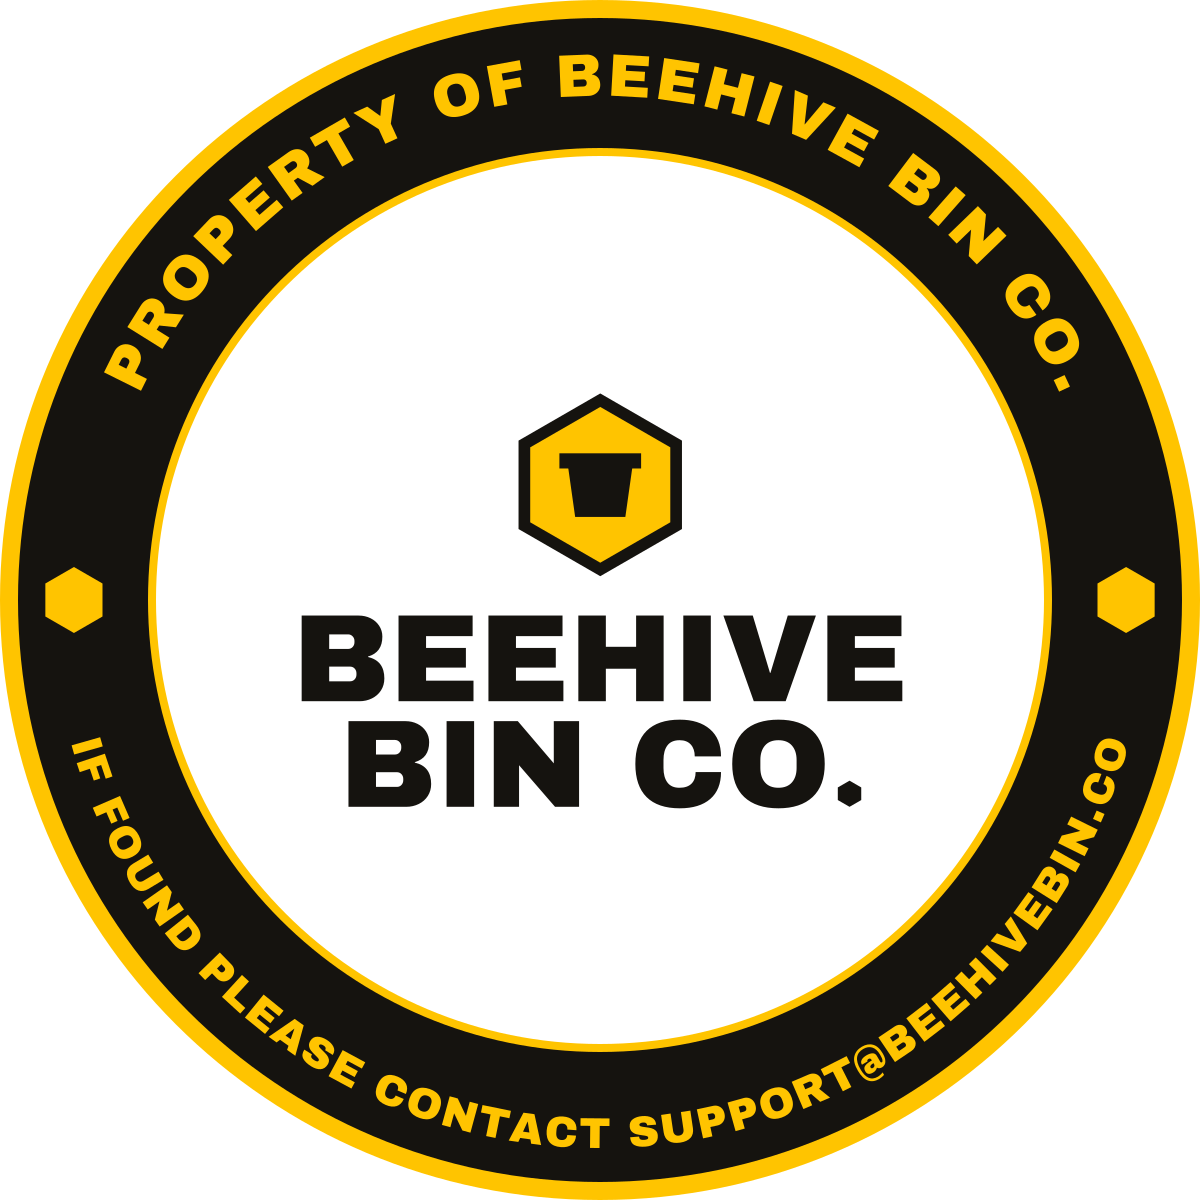
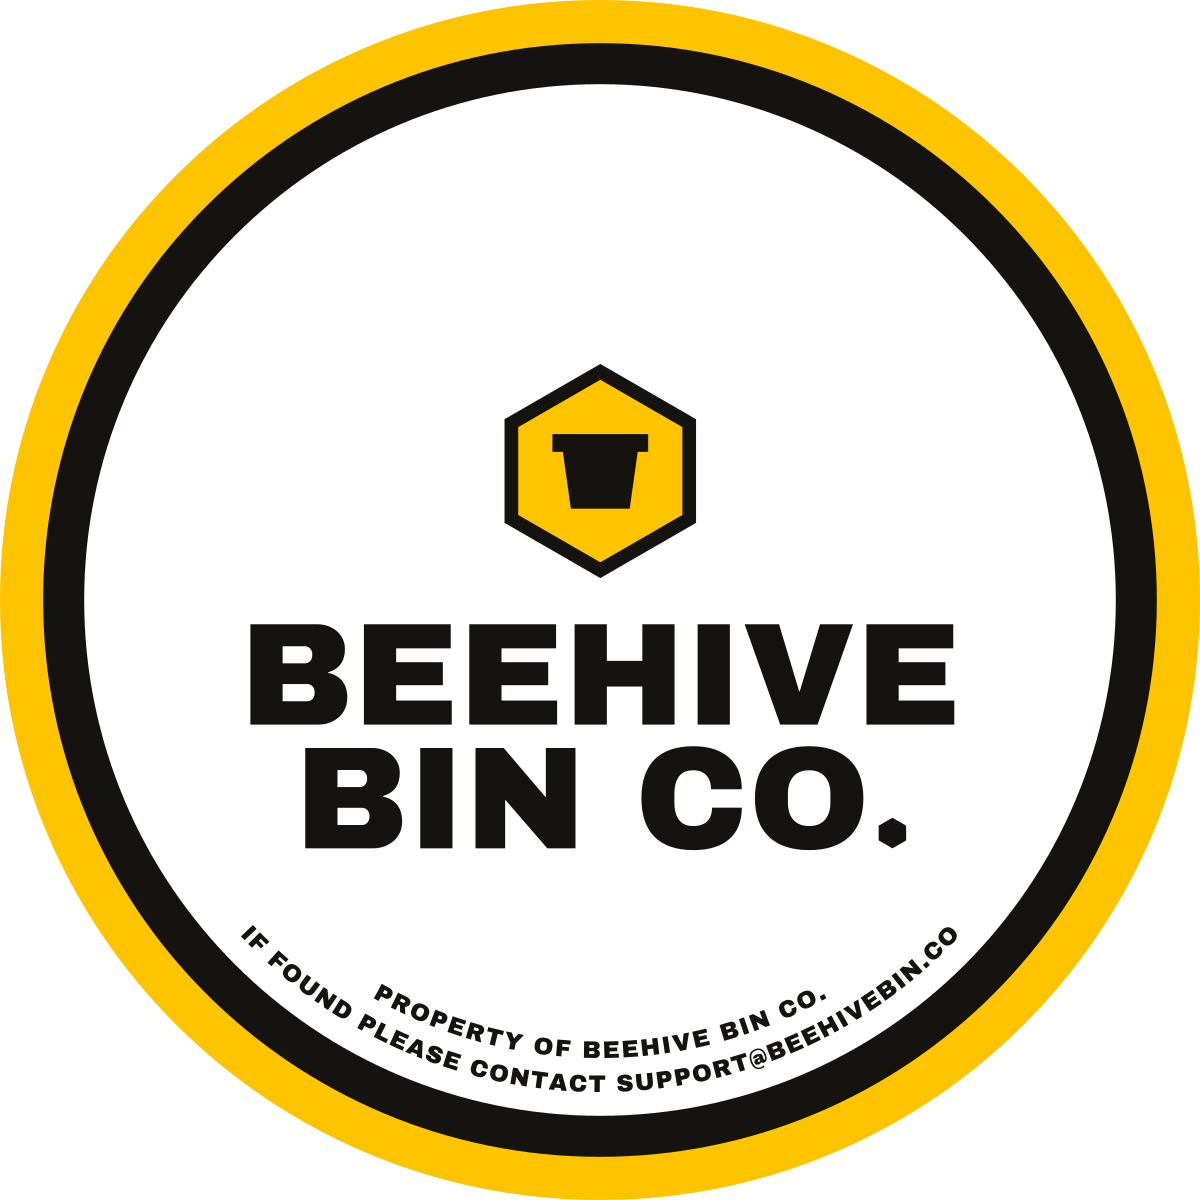
A stoplight on every request: can this be said yes to?
Green fits with room, yellow fits but leaves the fleet nearly empty, red
does not fit and says by how many on which day, grey when there is nothing
to judge. One availability sweep covers every request on screen. A request
already turned into a rental is judged with its own hold left out.

diff --git a/workers/admin/test/stoplight.test.js b/workers/admin/test/stoplight.test.js
@@ -1,0 +1,62 @@
+import { describe, it, expect } from 'vitest';
+import { ok, request, rental, fleet, weekday } from './helpers.js';
+
+const addDays = (iso, n) => { const d = new Date(`${iso}T12:00:00Z`); d.setUTCDate(d.getUTCDate() + n); return d.toISOString().slice(0, 10); };
+const light = async id => (await ok(`/requests/${id}`)).request.fit;
+const lights = async () => Object.fromEntries((await ok('/requests?status=new')).requests.map(r => [r.id, r.fit]));
+
+describe('the stoplight on a request', () => {
+  it('green when the bins are free with room to spare', async () => {
+    await fleet(40);
+    const r = await request({ bins: 10, start_date: weekday(3) });
+    expect(await light(r.id)).toMatchObject({ light: 'green', fits: true, available: 40, fleet: 40 });
+  });
+
+  it('yellow when it fits but would leave the fleet nearly empty', async () => {
+    await fleet(40);
+    await rental({ bins: 20, weeks: 1, start_date: weekday(3) });
+    const r = await request({ bins: 20, start_date: weekday(4), email: 'y@example.com' });   // 20 free, needs 20 → 0 left
+    const f = await light(r.id);
+    expect(f.light).toBe('yellow');
+    expect(f.fits).toBe(true);
+    expect(f.available).toBe(20);
+    expect(f.tightest_day).toBe(weekday(4));
+  });
+
+  it('red when it does not fit, saying by how much and which day', async () => {
+    await fleet(40);
+    await rental({ bins: 40, weeks: 1, start_date: weekday(3) });
+    const r = await request({ bins: 10, start_date: addDays(weekday(3), 8), email: 'r@example.com' });   // turnaround day
+    const f = await light(r.id);
+    expect(f).toMatchObject({ light: 'red', fits: false, short_by: 10, available: 0 });
+    expect(f.tightest_day).toBe(addDays(weekday(3), 8));
+  });
+
+  it('grey when there is nothing to judge: no fleet, no dates, or a contact enquiry', async () => {
+    const r = await request({ bins: 10, start_date: weekday(3) });
+    expect((await light(r.id)).light).toBe('grey');
+    await fleet(40);
+    const q = await ok('/requests', { method: 'POST', body: { kind: 'contact', first_name: 'Q', email: 'q@example.com', message: 'hi' } });
+    expect((await light(q.request.id)).light).toBe('grey');
+  });
+
+  it('the list carries a light per row, with one availability lookup for the lot', async () => {
+    await fleet(40);
+    await rental({ bins: 40, weeks: 1, start_date: weekday(14) });
+    const a = await request({ bins: 10, start_date: weekday(3), email: 'a@example.com' });    // done and turned around before the 14th
+    const b = await request({ bins: 10, start_date: weekday(14), email: 'b@example.com' });
+    const c = await request({ bins: 60, start_date: weekday(30), email: 'c@example.com' });   // nothing else that far out — still 20 more than we own
+    const map = await lights();
+    expect(map[a.id].light).toBe('green');
+    expect(map[b.id].light).toBe('red');
+    expect(map[c.id].light).toBe('red');   // more than we own, ever
+    expect(map[c.id].short_by).toBe(20);
+  });
+
+  it('a converted request is judged against the world without its own rental in it', async () => {
+    await fleet(40);
+    const r = await rental({ bins: 40, weeks: 1, start_date: weekday(3) });
+    const f = (await ok(`/requests/${r.request_id}`)).request.fit;
+    expect(f.light).toBe('yellow');   // it fits exactly — because it is the one holding them
+  });
+});

diff --git a/workers/admin/public/index.html b/workers/admin/public/index.html
@@ -300,6 +300,7 @@ tr.late td{background:rgba(163,44,44,.05)}
 .cal .d.over{background:rgba(163,44,44,.12);border-color:rgba(163,44,44,.4)}
 .cal .d.over .av{color:var(--bad)}
 .binrow td{font-variant-numeric:tabular-nums}
+.light{margin-right:7px;cursor:help;font-size:13px;vertical-align:-1px}
 .seg button .n{opacity:.55;margin-left:4px;font-weight:400}
 .cond{font-size:11px;font-weight:700;letter-spacing:.04em;text-transform:uppercase;
   padding:3px 9px;border-radius:999px}
@@ -580,6 +581,20 @@ function render(active, node) {
 
 const banner = (msg, kind = 'err') => $(`<div class="banner ${kind}">${esc(msg)}</div>`);
 
+/* The stoplight: can this request be said yes to? The Worker judges each
+   request against the fleet over its whole span; this just draws the answer
+   and explains it on hover, so nobody presses Approve to find out. */
+const LIGHT = { green: '🟢', yellow: '🟡', red: '🔴', grey: '⚪' };
+function lightTitle(f, r) {
+  if (!f || f.light === 'grey') return f?.fleet === 0 ? 'No bins on the inventory list yet' : 'Nothing to check';
+  const day = f.tightest_day === r.start_date ? 'on the start date' : `on ${niceDate(f.tightest_day)}`;
+  if (f.light === 'red') return `Does not fit — only ${f.available} of ${f.fleet} bins free ${day}, ${f.short_by} short`;
+  if (f.light === 'yellow') return `Fits, but leaves only ${f.available - r.bins} of ${f.fleet} bins ${day}`;
+  return `Fits — ${f.available} of ${f.fleet} bins free ${day}`;
+}
+const light = (r, cls = '') => r.kind === 'reserve'
+  ? `<span class="light ${cls}" title="${esc(lightTitle(r.fit, r))}">${LIGHT[r.fit?.light || 'grey']}</span>` : '';
+
 /* ---------- requests ---------- */
 const reqState = { status: 'new', q: '' };
 
@@ -642,7 +657,7 @@ async function loadList(list, head) {
         : `<span class="pill ${r.status}">${r.status}</span>`}${
         r.source === 'manual' ? ' <span class="pill manual" title="Taken by phone">phone</span>' : ''}</td>
       <td><div class="who">${esc(fullName(r))}<small>${esc(r.email || r.phone || '—')}</small></div></td>
-      <td class="nowrap">${r.kind === 'contact' ? '<em style="color:var(--muted)">Question</em>' : esc(pkg(r))}</td>
+      <td class="nowrap">${light(r)}${r.kind === 'contact' ? '<em style="color:var(--muted)">Question</em>' : esc(pkg(r))}</td>
       <td class="nowrap num">${esc(niceDate(r.start_date))}</td>
       <td class="hide-sm">${esc(r.delivery_city || '—')}</td>
       <td class="nowrap num hide-sm">${esc(money(r.quoted_total_cents))}</td>
@@ -1169,6 +1184,7 @@ async function openRequest(id) {
         <dt>Email</dt><dd>${esc(r.email || '—')}</dd>
         ${r.kind === 'reserve' ? `
         <dt>Package</dt><dd>${esc(pkg(r))}</dd>
+        <dt>Bins free</dt><dd>${light(r)} <span style="font-weight:400">${esc(lightTitle(r.fit, r))}</span></dd>
         <dt>Quoted</dt><dd>${esc(money(r.quoted_total_cents))} <span style="color:var(--muted);font-weight:400">before tax</span></dd>` : ''}
         <dt>${r.kind === 'reserve' ? 'Starts' : 'Needs bins'}</dt><dd>${esc(niceDate(r.start_date))}</dd>
         ${extras.map(([k, v]) => `<dt>${esc(k)}</dt><dd>${esc(v)}</dd>`).join('')}

diff --git a/workers/admin/src/inventory.js b/workers/admin/src/inventory.js
@@ -102,3 +102,61 @@ export async function canFit(env, { startDate, dueDate, bins, excludeRentalId })
     fleetUnknown: fleetTotal === 0,
   };
 }
+
+/* The stoplight.
+
+   A request is a question — "can I have 20 bins on the 16th?" — and the
+   answer should be visible in the list, not found out by pressing Approve.
+   One availability sweep covers every request on screen; each is then judged
+   against its own span in memory.
+
+     green   fits, and leaves a reasonable margin on its tightest day
+     yellow  fits, but would leave the fleet nearly empty — say yes carefully
+     red     does not fit; says by how many and on which day
+     grey    nothing to judge: no dates, no package, or no bins on the list
+
+   A request already turned into a rental is judged with that rental's own
+   hold left out, so it does not go red for having been accepted. */
+const TIGHT_FRACTION = 0.15;
+
+export async function stoplights(env, requests) {
+  const { fleetTotal, turnaroundDays } = await getSettings(env);
+  const judged = requests.filter(r => r.kind === 'reserve' && r.bins && r.start_date && r.weeks);
+  const grey = { light: 'grey', fits: null };
+  if (!judged.length || fleetTotal === 0) {
+    return Object.fromEntries(requests.map(r => [r.id, grey]));
+  }
+
+  const from = judged.map(r => r.start_date).sort()[0];
+  const to = judged.map(r => addDays(addDays(r.start_date, 7 * r.weeks), turnaroundDays)).sort().at(-1);
+  const span = Math.max(1, Math.round((new Date(`${to}T12:00:00Z`) - new Date(`${from}T12:00:00Z`)) / 86400000) + 1);
+  const { days } = await availability(env, from, span);
+  const byDate = new Map(days.map(d => [d.date, d]));
+
+  const out = {};
+  for (const r of requests) {
+    if (!judged.includes(r)) { out[r.id] = grey; continue; }
+    const last = addDays(addDays(r.start_date, 7 * r.weeks), turnaroundDays);
+    let worst = null;
+    for (let d = r.start_date; d <= last; d = addDays(d, 1)) {
+      const day = byDate.get(d);
+      if (!day) continue;
+      // Its own rental, if it has one, is not competition.
+      const own = r.rental_id ? day.rentals.find(x => x.id === r.rental_id)?.bins || 0 : 0;
+      const available = day.available + own;
+      if (!worst || available < worst.available) worst = { date: d, available };
+    }
+    const available = worst?.available ?? fleetTotal;
+    const left = available - r.bins;
+    const fits = left >= 0;
+    out[r.id] = {
+      light: !fits ? 'red' : left < Math.max(1, Math.ceil(fleetTotal * TIGHT_FRACTION)) ? 'yellow' : 'green',
+      fits,
+      available,
+      fleet: fleetTotal,
+      short_by: fits ? 0 : -left,
+      tightest_day: worst?.date ?? r.start_date,
+    };
+  }
+  return out;
+}

diff --git a/workers/admin/src/index.js b/workers/admin/src/index.js
@@ -9,7 +9,7 @@ import { WorkerEntrypoint } from 'cloudflare:workers';
 import { createInvoice, fetchInvoice, ping as squarePing, storeCard, ensureCustomer, SquareError } from './square.js';
 import { PRICES, EXTRA, quoteCents } from './pricing.js';
 import { rateFor, serviceCity, SERVICE_CITIES } from './tax.js';
-import { availability, canFit, getSettings } from './inventory.js';
+import { availability, canFit, getSettings, stoplights } from './inventory.js';
 import { today, addDays, addWeeks, isoDate, isSunday, dayDiff, startOfDay } from '../../shared/clock.js';
 import { listCharges, proposals, outstanding, owedCents } from './charges.js';
 
@@ -128,7 +128,8 @@ const REQUEST_COLUMNS = () => `id, created_at, kind, source, status, contact_pre
   CASE WHEN status = 'new' AND start_date IS NOT NULL AND date(start_date) < date('${today()}')
        THEN 1 ELSE 0 END AS lapsed, first_name, last_name, email, phone,
   bins, weeks, start_date, return_date, quoted_total_cents, delivery_city, pickup_city,
-  customer_notes, message, internal_notes, decided_at, decided_by, decline_reason`;
+  customer_notes, message, internal_notes, decided_at, decided_by, decline_reason,
+  (SELECT id FROM rentals WHERE rentals.request_id = requests.id LIMIT 1) AS rental_id`;
 
 const STATUSES = ['new', 'approved', 'declined', 'converted'];
 
@@ -1430,7 +1431,11 @@ async function api(request, env, url) {
   }
 
   if (path === '/requests') {
-    if (method === 'GET') return json({ requests: await listRequests(env, url) });
+    if (method === 'GET') {
+      const requests = await listRequests(env, url);
+      const fit = await stoplights(env, requests);
+      return json({ requests: requests.map(r => ({ ...r, fit: fit[r.id] })) });
+    }
     if (method === 'POST') return json({ request: await createRequest(env, user, body) }, 201);
   }
 
@@ -1440,6 +1445,7 @@ async function api(request, env, url) {
       const row = await env.DB.prepare(`SELECT ${REQUEST_COLUMNS()}, raw_json FROM requests WHERE id = ?1`)
         .bind(id).first();
       if (!row) throw new HttpError(404, 'no such request');
+      row.fit = (await stoplights(env, [row]))[row.id];
       return json({ request: row });
     }
     if (method === 'PATCH') {

diff --git a/assets/stickers/make-sticker.py b/assets/stickers/make-sticker.py
@@ -26,11 +26,16 @@ YELLOW = "#FFC400"
 WHITE  = "#FFFFFF"
 
 CX = CY = 600.0
-R_OUTER = 600.0
-R_INK   = 582.0     # ink disc inside the yellow rim
-R_RING_KEYLINE = 452.0
-R_WHITE = 444.0
-TEXT_OUTER = 548.0  # outer edge both text arcs align to
+# Canvas is 1200 px = 4.0945 in (4 in sticker + bleed). Printer cuts at 4 in,
+# safety line sits near r=525 -- keep every glyph inside r=495.
+PX_PER_IN = 1200 / 4.0945
+R_OUTER = 600.0                         # yellow: bleed + visible rim after the cut
+R_CUT   = 4.0 / 2 * PX_PER_IN           # ~586: where the printer cuts
+R_INK   = R_CUT - 0.10 * PX_PER_IN      # ~557: 0.1 in yellow border stays visible
+R_WHITE = R_INK - 0.14 * PX_PER_IN      # ~516: ink frame band
+FINE_OUTER_R = 492.0  # baseline of the outer fine-print arc (caps grow inward)
+FINE_INNER_R = 458.0
+FINE_SIZE = 24.0
 CAP = 0.73          # cap-height as fraction of em (Archivo Black)
 
 font = TTFont(FONT)
@@ -53,14 +58,14 @@ def path_for(gname):
     gset[gname].draw(pen)
     return pen.getCommands()
 
-def arc_text(text, center_deg, span_deg, baseline_r, direction, track_em=0.06, color=YELLOW):
+def arc_text(text, center_deg, span_deg, baseline_r, direction, track_em=0.06, color=YELLOW, size=None):
     """Lay `text` along a circular arc as outlined glyph paths.
     direction=+1 -> angle increases with reading order (top arc, glyphs face outward)
     direction=-1 -> angle decreases with reading order (bottom arc, glyphs face inward)"""
     gl = glyphs(text)
     em_width = sum(a for _, a in gl) + track_em * (len(gl) - 1)
-    target_arc = math.radians(span_deg) * baseline_r
-    size = target_arc / em_width
+    if size is None:
+        size = math.radians(span_deg) * baseline_r / em_width
     k = size / upem
     track = track_em * size
 
@@ -90,48 +95,42 @@ def hexagon(cx, cy, r, fill):
         pts.append(f"{cx + r*math.cos(ang):.2f},{cy + r*math.sin(ang):.2f}")
     return f'<polygon points="{" ".join(pts)}" fill="{fill}"/>'
 
-# ---- centre logo: reuse the real stacked lockup ------------------------------
+# ---- centre logo: reuse the real stacked lockup, scaled up as the focal point
 raw = open(os.path.join(REPO, "assets", "logo", "beehive-stacked.svg")).read()
 inner = re.sub(r"^.*?<title>.*?</title>", "", raw, flags=re.S).replace("</svg>", "")
 LOGO_W, LOGO_H = 514.0, 355.0
-target_w = 640.0
+target_w = 750.0
 sc = target_w / LOGO_W
-logo = (f'<g transform="translate({CX - target_w/2:.2f},{CY - LOGO_H*sc/2:.2f}) '
+logo_cy = CY + 6.0    # optically centred above the fine-print footer
+logo = (f'<g transform="translate({CX - target_w/2:.2f},{logo_cy - LOGO_H*sc/2:.2f}) '
         f'scale({sc:.6f})">{inner}</g>')
 
-# ---- ring text ---------------------------------------------------------------
-TOP = "PROPERTY OF BEEHIVE BIN CO."
-BOTTOM = "IF FOUND PLEASE CONTACT SUPPORT@BEEHIVEBIN.CO"
+# ---- fine print: two short arcs under the logo, ink on white -----------------
+LINE1 = "PROPERTY OF BEEHIVE BIN CO."
+LINE2 = "IF FOUND PLEASE CONTACT SUPPORT@BEEHIVEBIN.CO"
+# LINE1 sits on the inner (upper) arc, LINE2 on the outer (lower) arc
+line1_svg, _ = arc_text(LINE1, 90, 0, FINE_INNER_R, -1, track_em=0.08, color=INK, size=FINE_SIZE)
+line2_svg, _ = arc_text(LINE2, 90, 0, FINE_OUTER_R, -1, track_em=0.06, color=INK, size=FINE_SIZE)
 
-TOP_SPAN, BOT_SPAN = 132.0, 150.0
-# solve baseline radius for the top arc (its caps grow outward from the baseline)
-size_guess = 64.0
-for _ in range(6):
-    r_top = TEXT_OUTER - CAP * size_guess
-    _, size_guess = arc_text(TOP, -90, TOP_SPAN, r_top, +1)
-top_svg, top_size = arc_text(TOP, -90, TOP_SPAN, r_top, +1)
-bot_svg, bot_size = arc_text(BOTTOM, 90, BOT_SPAN, TEXT_OUTER, -1, track_em=0.05)
+def span_deg(text, r, track_em):
+    gl = glyphs(text)
+    w = (sum(a for _, a in gl) + track_em * (len(gl) - 1)) * FINE_SIZE
+    return math.degrees(w / r)
+print(f"fine print: line1 {span_deg(LINE1, FINE_INNER_R, 0.08):.0f}deg, "
+      f"line2 {span_deg(LINE2, FINE_OUTER_R, 0.06):.0f}deg, "
+      f"outermost glyph r={FINE_OUTER_R:.0f}, logo corner r="
+      f"{math.hypot(target_w/2, LOGO_H*sc/2 + (logo_cy - CY)):.0f}")
 
-print(f"top size {top_size:.1f}px  baseline r {r_top:.1f}")
-print(f"bottom size {bot_size:.1f}px  cap reaches r {TEXT_OUTER - CAP*bot_size:.1f}")
-
-hex_r = 33.0
-hex_ring_r = TEXT_OUTER - 0.5 * CAP * max(top_size, bot_size)
-seps = (hexagon(CX + hex_ring_r, CY, hex_r, YELLOW)
-        + hexagon(CX - hex_ring_r, CY, hex_r, YELLOW))
-
-svg = f'''<svg xmlns="http://www.w3.org/2000/svg" viewBox="0 0 1200 1200" width="1200" height="1200" role="img" aria-label="Property of Beehive Bin Co. If found please contact support@beehivebin.co">
-<title>Beehive Bin Co. — bin asset sticker</title>
-<desc>Round 4 in / 102 mm die-cut sticker. Ring text is outlined (no fonts required).</desc>
+svg = f"""<svg xmlns="http://www.w3.org/2000/svg" viewBox="0 0 1200 1200" width="1200" height="1200" role="img" aria-label="Beehive Bin Co. Property of Beehive Bin Co. If found please contact support@beehivebin.co">
+<title>Beehive Bin Co. bin sticker</title>
+<desc>Round die-cut sticker. Canvas 4.0945 in incl. bleed, cut at 4 in, 0.1 in yellow border. Text is outlined (no fonts required).</desc>
 <circle cx="600" cy="600" r="{R_OUTER}" fill="{YELLOW}"/>
 <circle cx="600" cy="600" r="{R_INK}" fill="{INK}"/>
-<circle cx="600" cy="600" r="{R_RING_KEYLINE}" fill="{YELLOW}"/>
 <circle cx="600" cy="600" r="{R_WHITE}" fill="{WHITE}"/>
-{top_svg}
-{bot_svg}
-{seps}
 {logo}
+{line1_svg}
+{line2_svg}
 </svg>
-'''
+"""
 open(OUT, "w").write(svg)
 print("wrote", OUT, len(svg), "bytes")
